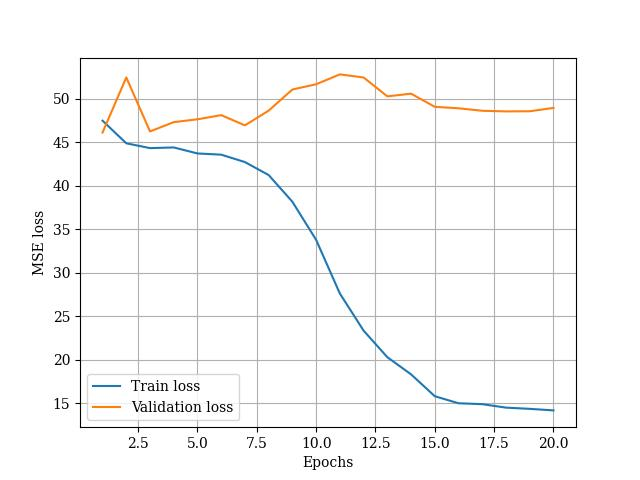
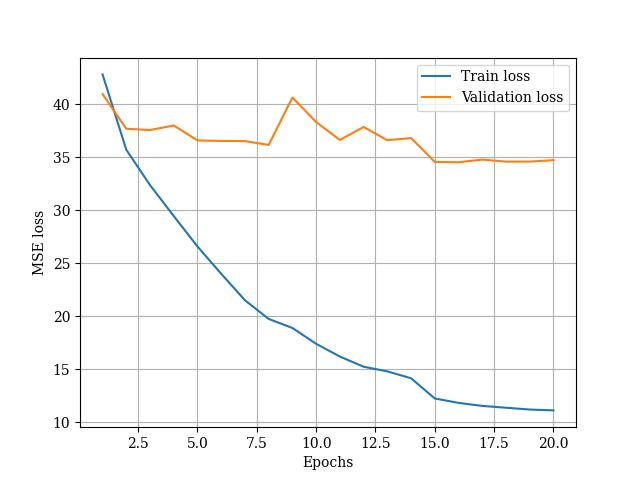
finito la comedia

diff --git a/fine_tuning/FineTuneModel.py b/fine_tuning/FineTuneModel.py
@@ -574,6 +574,9 @@ def FineTuning_eval():
   print('fwSNRseg: {:.2f}'.format(np.mean(dereverb_fwSNRseg_list)))
   ##print('SRMR: {:.2f}'.format(np.mean(#de#reverb_srmr_list)))
 
+
+
+
 def FineTuning_pesq_test():
   ''' '''
   LateSupUNetModel = LateSupUnet(n_channels=1, bilinear=False).cuda()
@@ -646,3 +649,6 @@ def pesq_evaluate(net, dataset, path, noisyspecs, init_example, end_example, spe
     torch.save(dereverb_pesq_list, path + 'dereverb_pesq_SupUnet.pth')
       
     print('Saved')
+    
+    
+FineTuning_pesq_test()

diff --git a/de_noising/DeNoiserUnet.py b/de_noising/DeNoiserUnet.py
@@ -202,7 +202,7 @@ def DENoise_train():
                  '/home/may.tiger/AIProject/de_noising/training/losses/val_loss_DeNoiser.pth']
                                                                                       # אפוקים זוגיים!!
   epochs = 18
-  lr = 2e-2
+  lr = 2e-3
   train_loss, val_loss = trainer(net, train_loader, val_loader, checkpoints, lr=lr, nEpochs = epochs)
 
   plt.style.reload_library()

diff --git a/orchestrator/orchestrator.py b/orchestrator/orchestrator.py
@@ -471,8 +471,8 @@ def present_outputs():
 # DENoise_eval()
 
 # # FineTuning_model
-FineTuning_train()
-FineTuning_train_2()
+# FineTuning_train()
+# FineTuning_train_2()
 # FineTuning_eval()
 
 ''' helper functions '''
@@ -481,6 +481,6 @@ FineTuning_train_2()
 
 # add_noise_to_data()
 
-# present_outputs()
+present_outputs()
 
 # augment_data()
